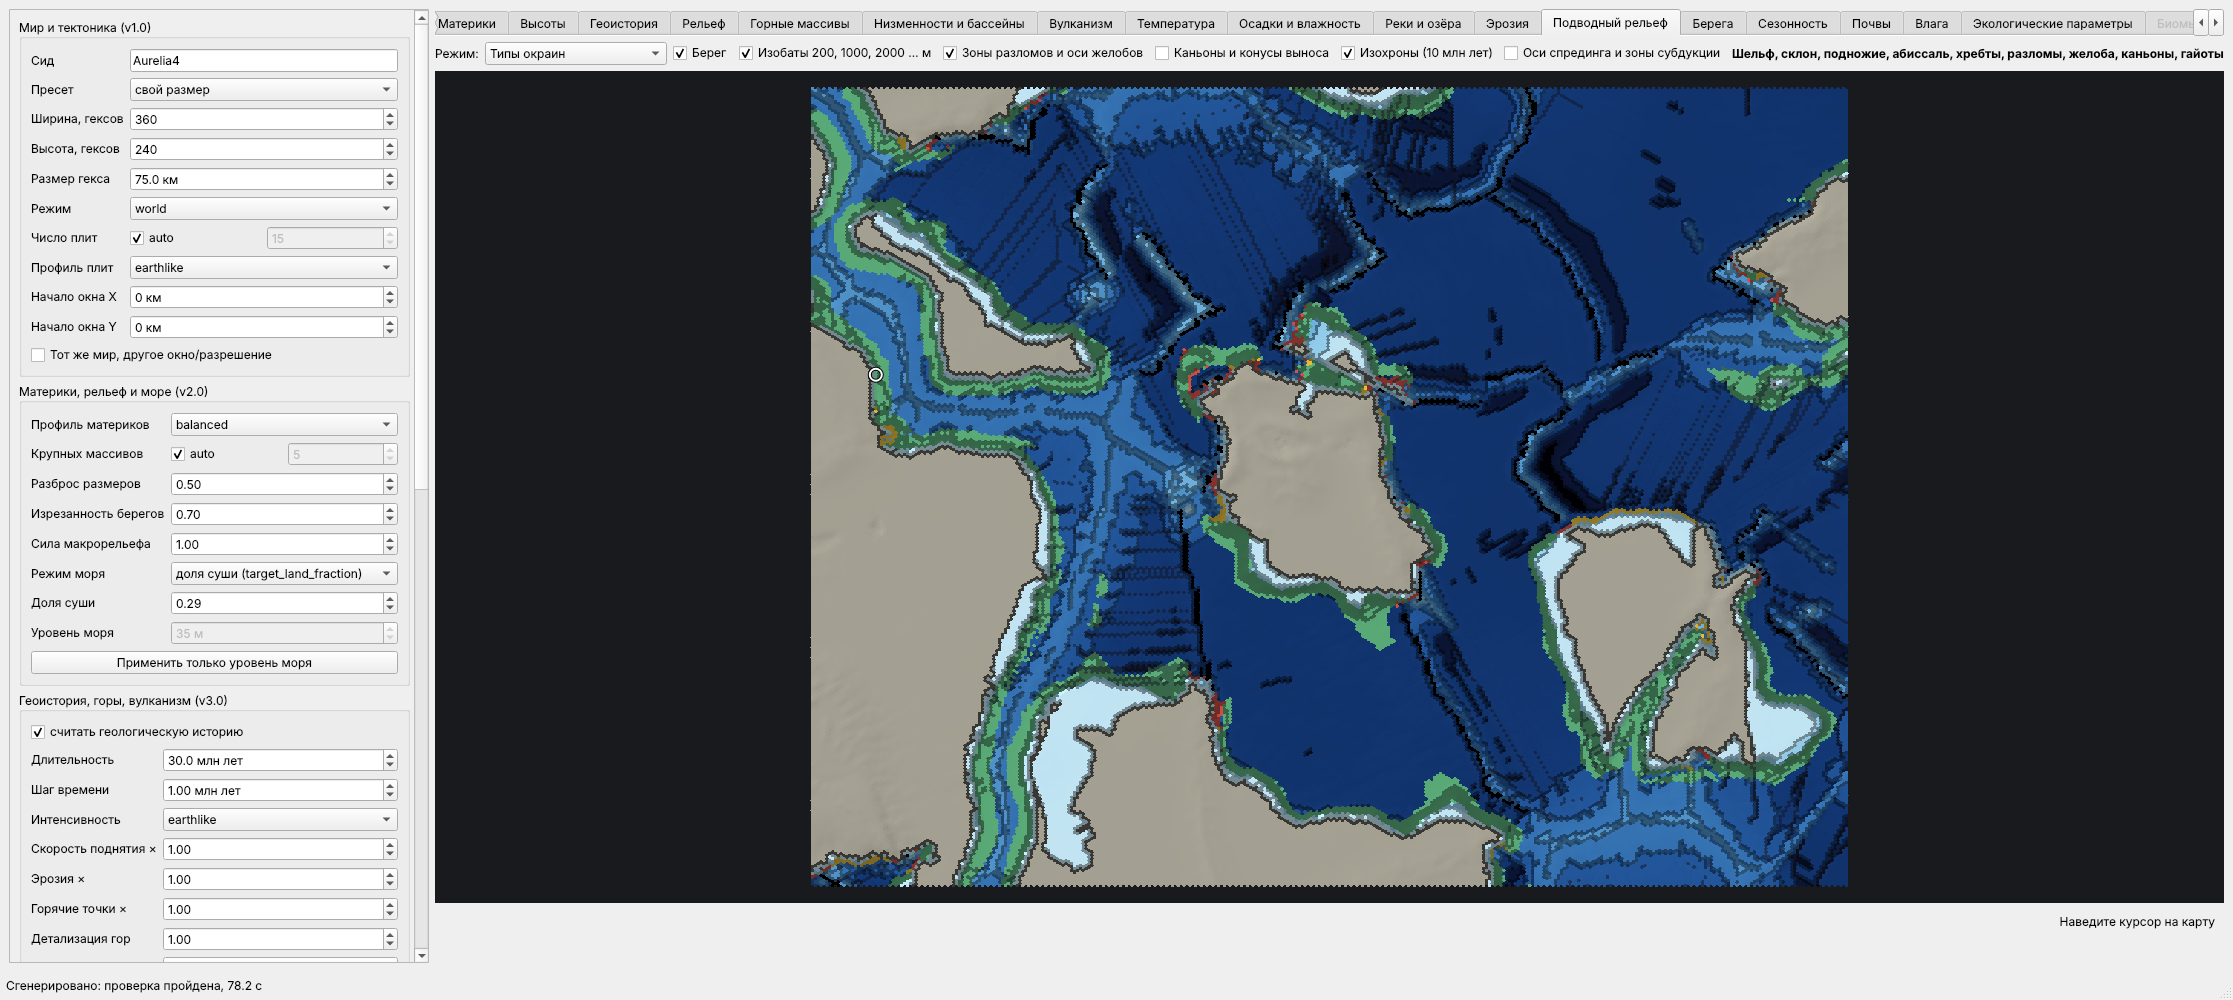
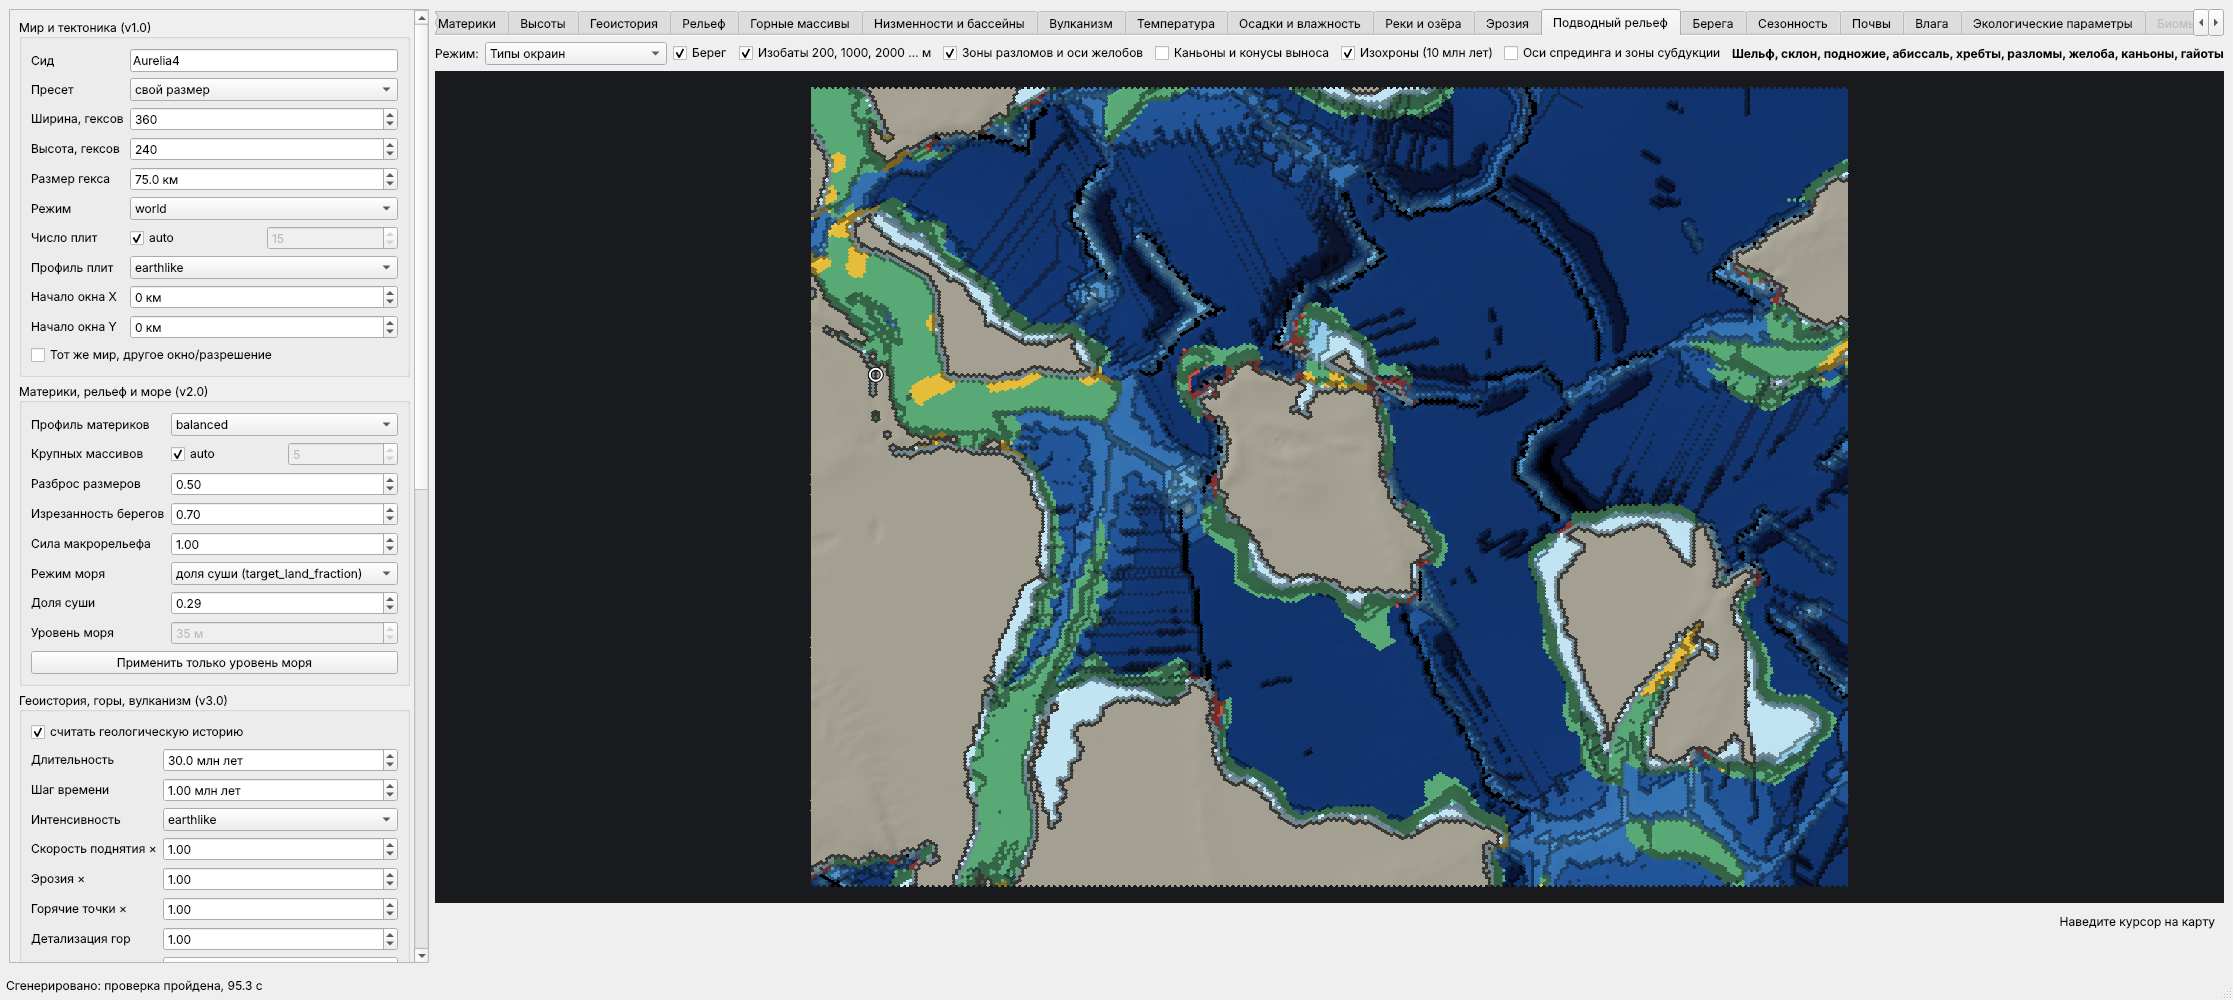
v4.6: same terrain in every window; platform sags filled to the brim
- margins, trench walls and new-crust coastal distance use world functions only;
  rifts and pull-aparts are planned on the world raster of the epoch, so two
  windows of one world give bit-identical heights and the same drainage
- intracratonic sags are filled to the brim (deep bedrock under a plain); only
  the under-filled Caspian-type sag remains a depression
- regenerated screenshots and 1000x800 maps, report numbers

Claude-Session: https://claude.ai/code/session_01XazT63y9559nKR2Bfvz9oF

diff --git a/src/hexworld/geomorph/basins.py b/src/hexworld/geomorph/basins.py
@@ -16,8 +16,8 @@ generator of round pits:
   the root is already in the surface) and only on continental crust: a foredeep along the
   mountain front and a low forebulge beyond it. No mountains, no foredeep;
 * ``intracratonic_sag`` - slow, broad subsidence of the platform interior (Williston,
-  Michigan, Paris, the Caspian lowland): wide, gentle, mostly filled by sediment; one sag
-  may be under-filled and lie below the sea level.
+  Michigan, Paris, the Caspian lowland): wide, gentle, filled by sediment to the brim (deep
+  bedrock under a plain); one sag may be under-filled and lie below the sea level.
 
 The **bedrock** subsidence and the **sediment fill** are separate: the surface sinks by
 ``subsidence - fill``. A deep basin can have an almost flat surface. The fill is assumed to
@@ -140,11 +140,53 @@ def _axis(x, y):
 
 
 def plan_boundary_basins(layout, plate, cont_ok, motion, seed: str, spacing_km: float):
-    """Rift grabens and pull-apart basins on the continental plate boundaries of the epoch."""
+    """Rift grabens and pull-apart basins on the continental boundaries of a hex grid."""
     i, j, mx, my, nx, ny = _edges(layout, plate, cont_ok)
     if i.size == 0:
         return []
     pi, pj = plate.ravel()[i], plate.ravel()[j]
+    return _plan_from_edges(mx, my, nx, ny, pi, pj, motion, seed, spacing_km)
+
+
+def plan_boundary_basins_world(world: dict, motion, seed: str, continental_above_m=-1200.0):
+    """The same on the world raster of the epoch (window independent).
+
+    Continental crust is taken where the epoch surface lies above ``continental_above_m``
+    (shelves at most a few hundred metres deep, oceanic floor below -2500 m).
+    """
+    g = world["grid"]
+    cell = float(g["cell_km"])
+    plate = np.asarray(world["plate_id"])
+    z = np.asarray(world["elevation_m"])
+    ny_, nx_ = plate.shape
+    xs = g["x0_km"] + cell * np.arange(nx_)
+    ys = g["y0_km"] + cell * np.arange(ny_)
+    cont = z > continental_above_m
+    parts = []
+    for dr, dc in ((0, 1), (1, 0)):
+        a = (slice(0, ny_ - dr), slice(0, nx_ - dc))
+        b = (slice(dr, ny_), slice(dc, nx_))
+        hit = (plate[a] != plate[b]) & cont[a] & cont[b]
+        r, c = np.nonzero(hit)
+        parts.append(
+            (
+                xs[c] + 0.5 * dc * cell,
+                ys[r] + 0.5 * dr * cell,
+                np.full(r.size, float(dc)),
+                np.full(r.size, float(dr)),
+                plate[a][r, c],
+                plate[b][r, c],
+            )
+        )
+    mx, my, nx, ny, pi, pj = (np.concatenate([p[k] for p in parts]) for k in range(6))
+    if mx.size == 0:
+        return []
+    return _plan_from_edges(
+        mx, my, nx, ny, pi.astype(np.int64), pj.astype(np.int64), motion, seed, cell
+    )
+
+
+def _plan_from_edges(mx, my, nx, ny, pi, pj, motion, seed: str, spacing_km: float):
     # hex edges point in six directions only: take the boundary trend over ~200 km of the
     # same plate pair (PCA of the edge midpoints), oriented from plate i towards plate j
     lo, hi = np.minimum(pi, pj), np.maximum(pi, pj)
@@ -249,7 +291,9 @@ def plan_sags(continentality, x, y, boundary_distance_km, seed: str, density: fl
         caspian = len(plans) == 0 and u[5] < 0.6  # the first sag may be under-filled
         w = rs.child("outline").random(4)
         subsidence = 1200.0 + 2800.0 * u[2]
-        lowering = (180.0 + 260.0 * u[3]) if caspian else (30.0 + 120.0 * u[3])
+        # a sag is normally filled to the brim (Williston, Michigan, Paris: a deep sediment
+        # column under a plain, no closed bowl); only the under-filled one is a depression
+        lowering = (180.0 + 260.0 * u[3]) if caspian else 0.0
         plans.append(
             {
                 "basin_type": BASIN_TYPES[SAG],

diff --git a/src/hexworld/geomorph/bathymetry.py b/src/hexworld/geomorph/bathymetry.py
@@ -40,17 +40,6 @@ def footprint(d_km, sigma_km, spacing_km):
     return (sigma_km / s_eff) * np.exp(-0.5 * (np.asarray(d_km) / s_eff) ** 2)
 
 
-def _nearest_index(layout, mask):
-    """Flat index of the nearest hex of ``mask`` for every hex (-1 if mask is empty)."""
-    hx, hy = layout.centers()
-    pts = np.column_stack([hx.ravel(), hy.ravel()])
-    idx = np.nonzero(mask.ravel())[0]
-    if idx.size == 0:
-        return np.full(pts.shape[0], -1, dtype=np.int64), np.full(pts.shape[0], np.inf)
-    d, k = cKDTree(pts[idx]).query(pts)
-    return idx[k], d
-
-
 def _neighbours(layout):
     from ..stages.raster import neighbor_index
 
@@ -97,6 +86,7 @@ def compose_sea_floor(
     seed: str,
     volcano_rows: list[dict] | None = None,
     age_scale: float = 1.0,
+    transform_points=None,
 ) -> dict:
     """Sea floor of the epoch. Returns flat-free (rows, cols) layers and a summary."""
     shape = (layout.height, layout.width)
@@ -117,12 +107,14 @@ def compose_sea_floor(
 
     # -- 1. where the sea floor is: seaward of the continental crust edge ----------------
     gap_rift = new & (cf > 0.05)
-    cont_hex = np.where(np.isfinite(cont), cont >= 0.0, cf >= 0.5)
     c_eff = cont.copy()
     missing = ~np.isfinite(c_eff)
     if missing.any():
-        _k, dist = _nearest_index(layout, cont_hex.reshape(shape))
-        c_eff[missing] = -np.minimum(dist[missing], 1.0e4)
+        # new crust: the distance to where the continent edge was, in the plate's own
+        # frame - a world function, so every window and resolution gets the same value
+        c_gap = relief_model.continents.continentality(mx[missing], my[missing])
+        c_eff[missing] = np.minimum(c_gap, -1.0)
+    cont_hex = c_eff >= 0.0
     marine = (c_eff < 0.0) & ~gap_rift
     m = np.nonzero(marine)[0]
 
@@ -221,9 +213,9 @@ def compose_sea_floor(
         f_rate = np.clip(np.sqrt(np.maximum(rate, 0.0) / 50.0), 0.6, 1.3)
         f_age = 0.55 + 0.45 * np.clip(np.nan_to_num(age, nan=80.0) / 100.0, 0.0, 1.5)
         d_axis = params.trench_depth_m * f_age * f_rate * np.exp(0.25 * along(hx, hy))
-        # the overriding side takes the depth of the nearest subducting hex
-        k_sub, _d = _nearest_index(layout, sub.reshape(shape))
-        d_here = np.where(sub, d_axis, d_axis[np.maximum(k_sub, 0)])
+        # local values only (no search for the nearest subducting hex, which would make
+        # the result depend on the window): the inner wall uses the crust of its own side
+        d_here = d_axis
         bulge = (250.0 + 250.0 * np.clip(np.nan_to_num(age, nan=80.0) / 100.0, 0.0, 1.0)) * f_rate
         trench = np.where(
             sub,
@@ -236,8 +228,11 @@ def compose_sea_floor(
         outer_rise = sub & (tdist > 60.0) & (tdist < 220.0) & (trench > 60.0)
 
     # -- 8. continental margins ----------------------------------------------------------------
-    bclass = flat("boundary_class", np.int64)
-    _kt, tf_dist = _nearest_index(layout, (bclass == 4).reshape(shape))
+    # distance to transform plate boundaries of the world skeleton, in the plate frame
+    if transform_points is not None and len(transform_points):
+        tf_dist, _ = cKDTree(np.asarray(transform_points)).query(np.column_stack([mx, my]))
+    else:
+        tf_dist = np.full(n, 1.0e4)
     weights = margin_weights(tdist, side, tf_dist)
     var_noise = FractalNoise(stream.child("margin_width"), [1600.0, 800.0], [1.0, 0.4])
     variation = np.exp(0.35 * var_noise(mx, my))

diff --git a/src/hexworld/pipeline_v46.py b/src/hexworld/pipeline_v46.py
@@ -30,6 +30,7 @@ from .geomorph.bathymetry import compose_sea_floor
 from .geomorph.ocean_age import baseline_age_scale, build_ridge_pieces
 from .geomorph.surface_water import ocean_mask, sources_from_world
 from .project import TerrainData
+from .stages.boundaries import TYPE_TRANSFORM
 from .stages.hydrology import hex_graph
 from .version import TERRAIN_ALGORITHM_VERSION
 
@@ -107,6 +108,12 @@ def compose_terrain(config, geometry, project, report=None) -> dict:
         config.seed,
         hist.volcanoes,
         age_scale=scale,
+        transform_points=np.column_stack(
+            [
+                skeleton.bx[skeleton.kind == TYPE_TRANSFORM],
+                skeleton.by[skeleton.kind == TYPE_TRANSFORM],
+            ]
+        ),
     )
     sea["summary"]["baseline_age_scale"] = round(float(scale), 4)
     timings["v46_sea_floor"] = round(time.perf_counter() - t0, 4)
@@ -123,13 +130,10 @@ def compose_terrain(config, geometry, project, report=None) -> dict:
     in_mountains = hist.layers["mountain_system_id"] >= 0
     plans: list[dict] = []
     if "rift_graben" in params.basins or "pull_apart" in params.basins:
-        boundary_plans = basin_mod.plan_boundary_basins(
-            layout,
-            hist.layers["plate_id_epoch"],
-            continental,
-            project.motion,
-            config.seed,
-            layout.spacing_km,
+        # planned on the world raster of the epoch, not on the hexes of the window: the
+        # same rift / pull-apart in every window and at every resolution
+        boundary_plans = basin_mod.plan_boundary_basins_world(
+            hist.world, project.motion, config.seed
         )
         for p in boundary_plans:
             if p["basin_type"] == "rift_graben" and "rift_graben" in params.basins:

diff --git a/tests/test_v46.py b/tests/test_v46.py
@@ -357,7 +357,11 @@ def test_sag_is_broad_gentle_and_bedrock_differs_from_surface():
         [plan], cx + r, np.full(r.size, cy), cx + r, np.full(r.size, cy)
     )
     surface_drop = sub - fill
-    assert sub[0] > 1000.0 and surface_drop[0] < 0.25 * sub[0]  # mostly filled: flat surface
+    if plan["under_filled"]:
+        assert 150.0 < surface_drop[0] < 0.5 * sub[0]  # the Caspian type: a real depression
+    else:
+        assert np.all(surface_drop == 0.0)  # filled to the brim: bedrock deep, surface flat
+    assert sub[0] > 1000.0 and not np.array_equal(sub, surface_drop)  # bedrock != surface
     width = r[np.argmax(sub < 0.5 * sub[0])]
     assert width > 200.0  # broad
     assert np.max(np.abs(np.diff(surface_drop)) / 10.0) < 5.0  # gentle: < 5 m per km
